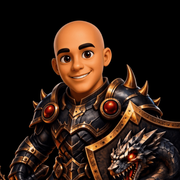
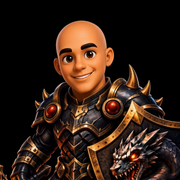
Terceira arte na marca: mesma aparência entregue, 47 KB a menos no herói
Chegou uma quarta candidata (Firefly). Comparei as três medindo, e a conclusão
mais útil é o que NÃO importa: nos tamanhos que o site usa — o herói a 300 px no
celular e a marca a 44 no cabeçalho — as três são indistinguíveis. Só a 6x de
ampliação elas se separam, e aí cada uma tem um defeito diferente: a primeira é
macia, a segunda tem pontilhado de quantização na pele (é a mais comprimida, 431
KB), a terceira tem um contorno escuro no crânio.

Como o olho empata, decide o peso. O herói sai com 115 KB contra os 163 que
estavam no ar — 29% mais leve, e é a maior imagem da home.

Fica registrado o que não funcionou como teste, para não repetir: comparar a
luminância média da meia-tinta com a do miolo diz pouco, porque as duas
populações são diferentes. E a razão L(borda)/L(vizinho) contra alfa/255, que
deveria denunciar fundo assado na borda, apontou a arte errada — confunde borda
fina com borda contaminada. O que decidiu foi ampliar a silhueta 6x sobre branco
e olhar, e depois olhar de novo no tamanho de entrega.

Herói agora é 720x857; o height do <img> acompanha.

diff --git a/index.html b/index.html
@@ -21,7 +21,7 @@
   </style>
 </head><body>
 <header class="topbar"><nav class="nav shell" aria-label="Principal"><a class="brand" href="#inicio"><img src="brand/dragon-mark.webp" alt="" width="44" height="44"/><span class="brand-copy"><b>DRAGON GAMES</b><span>Jogos na mesa. No celular.</span></span></a><div class="nav-links"><a href="#jogos">Jogos</a><a href="https://github.com/DrMarioNascimento/Dragon" target="_blank" rel="noopener noreferrer">GitHub</a></div></nav></header>
-<section class="hero shell" id="inicio"><div class="hero-copy"><span class="eyebrow">Studio · Florianópolis<span class="ew-rest"> · Santa Catarina · Brazil</span></span><h1>Dragon <span>Games</span></h1><p>A place for fun and ideas! A hub for learning through games, projects, and new concepts. Make yourself at home and enjoy the mystery, the action, and the company. We’re all about peace, learning, and fun. Maybe some PvP down the line (lol). I’m a beginner, so tips and suggestions are welcome!</p></div><img class="emblem" src="brand/dragon.webp" alt="" width="720" height="864"/></section>
+<section class="hero shell" id="inicio"><div class="hero-copy"><span class="eyebrow">Studio · Florianópolis<span class="ew-rest"> · Santa Catarina · Brazil</span></span><h1>Dragon <span>Games</span></h1><p>A place for fun and ideas! A hub for learning through games, projects, and new concepts. Make yourself at home and enjoy the mystery, the action, and the company. We’re all about peace, learning, and fun. Maybe some PvP down the line (lol). I’m a beginner, so tips and suggestions are welcome!</p></div><img class="emblem" src="brand/dragon.webp" alt="" width="720" height="857"/></section>
 <section class="games shell" id="jogos"><div class="games-head"><span class="eyebrow">Catálogo</span><h2>Jogos</h2><p>Dois casos. Em cada um, três portas: a mesa, a noite e o modo solo.</p></div>
 <article class="game"><span class="game-number">01</span><span class="eyebrow">Dedução · festa</span><h3>MOSAICO <span class="case">- A Casa da Costa</span></h3><p>A verdade é um fragmento. Cada um no próprio celular, a casa na mesma sala. Três portas para o mesmo caso: a mesa, a noite e o modo solo.</p><div class="game-strip" aria-hidden="true"><img src="solo/tiles/carta-costa.jpg" alt=""/><img src="solo/tiles/foto-agenda.jpg" alt=""/><img src="solo/tiles/foto-gaveta.jpg" alt=""/><img src="solo/tiles/foto-noite.jpg" alt=""/><img src="solo/tiles/foto-farol.jpg" alt=""/></div><div class="topics"><span class="topic">1 a 12</span><span class="topic">QR</span><span class="topic">Lanternas</span></div><div class="versions"><div class="ver"><b>A mesa</b><span>Telão, QR e as lanternas originais. Quem já jogou, joga igual.</span><a class="btn btn-gold" href="v1/MOSAICO-mesa.html" target="_blank" rel="noopener noreferrer">Abrir a mesa</a></div><div class="ver"><b>A noite</b><span>Curta ou cheia. Foto partida, ficha de três linhas.</span><a class="btn btn-ember" href="v2/" target="_blank" rel="noopener noreferrer">Abrir a noite</a></div><div class="ver"><b>Modo solo</b><span>Laboratório de playtest: escolha A Mesa ou A Noite e complete a lotação com bots.</span><a class="btn btn-ghost" href="solo-lab.html" target="_blank" rel="noopener noreferrer">Ensaiar sozinho</a></div></div></article>
 <article class="game"><span class="game-number">02</span><span class="eyebrow">Dedução · manhã</span><h3>MOSAICO <span class="case">- A manhã do Carro-forte</span></h3><p>O banco abre. O carro-forte chega cedo. O relógio da farmácia não bate com o sino da igreja. Cada um vê um fragmento da mesma manhã.</p><div class="game-strip" aria-hidden="true"><img src="carro-forte/tiles/relogio.jpg" alt=""/><img src="carro-forte/tiles/o-banco.jpg" alt=""/><img src="carro-forte/tiles/o-carro-forte.jpg" alt=""/><img src="carro-forte/tiles/o-malote.jpg" alt=""/><img src="carro-forte/tiles/a-zona-cega.jpg" alt=""/></div><div class="topics"><span class="topic">1 a 12</span><span class="topic">Banco</span><span class="topic">7h42</span></div><div class="versions"><div class="ver"><b>A mesa</b><span>Perspectivas, fragmentos e dedução. A verdade montada sob pressão.</span><a class="btn btn-gold" href="carro-forte/" target="_blank" rel="noopener noreferrer">Jogar</a></div><div class="ver"><b>A noite</b><span>Reunião de fechamento, disputa por evidências e decisão. A manhã produziu os fatos. A noite decide o que eles permitem concluir.</span><a class="btn btn-ember" href="carro-forte-noite/" target="_blank" rel="noopener noreferrer">Abrir a noite</a></div><div class="ver"><b>Modo solo</b><span>Laboratório de playtest com lotação máxima e bots.</span><a class="btn btn-ghost" href="solo-lab.html" target="_blank" rel="noopener noreferrer">Ensaiar sozinho</a></div></div></article>
